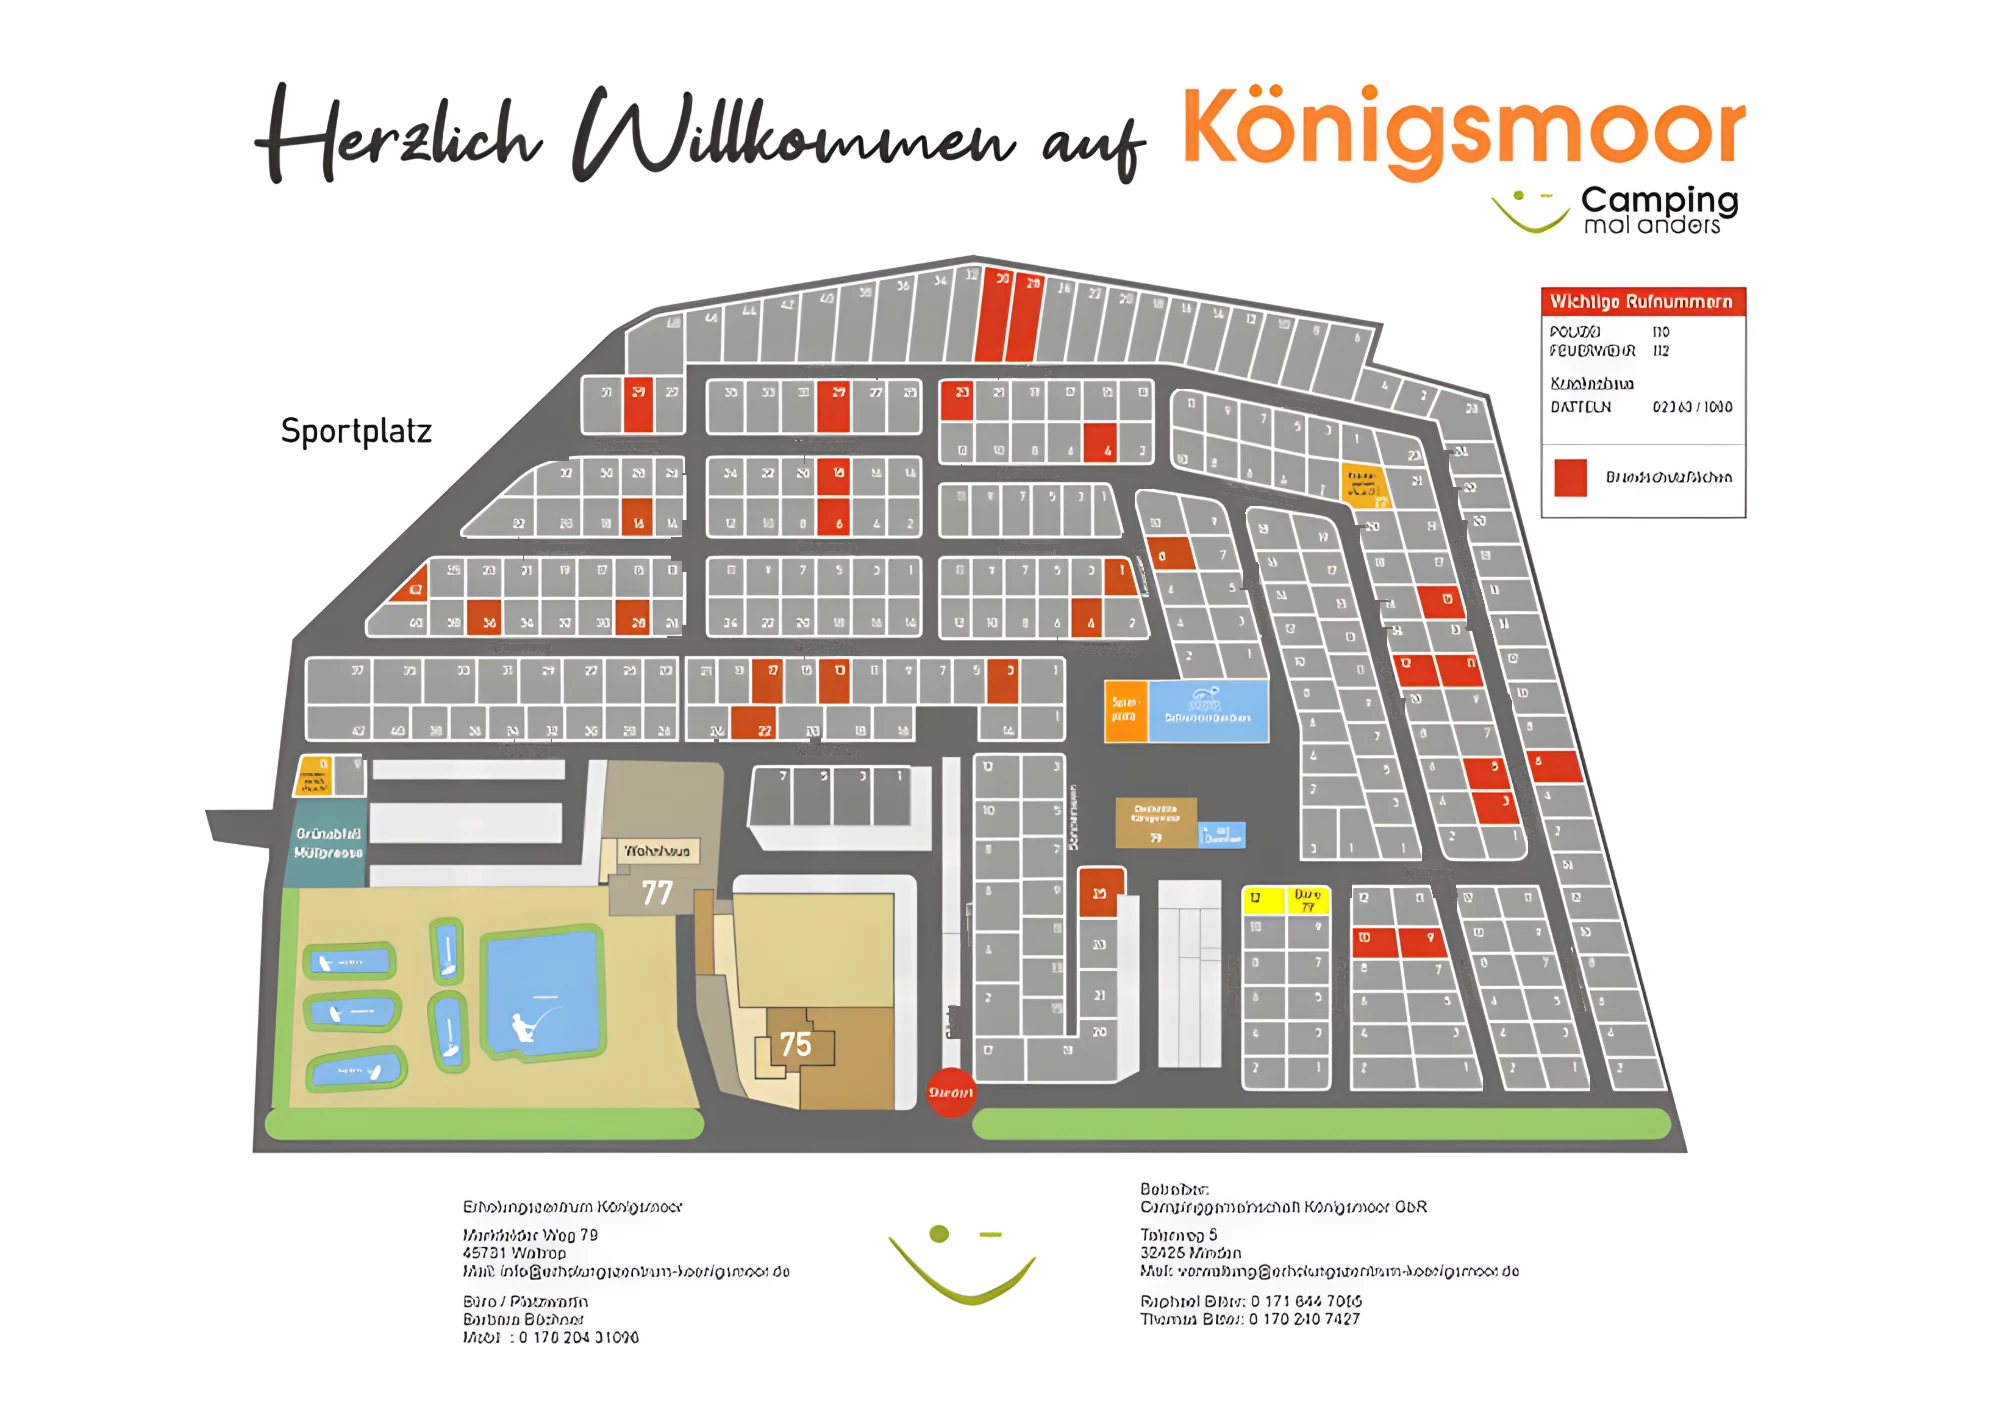
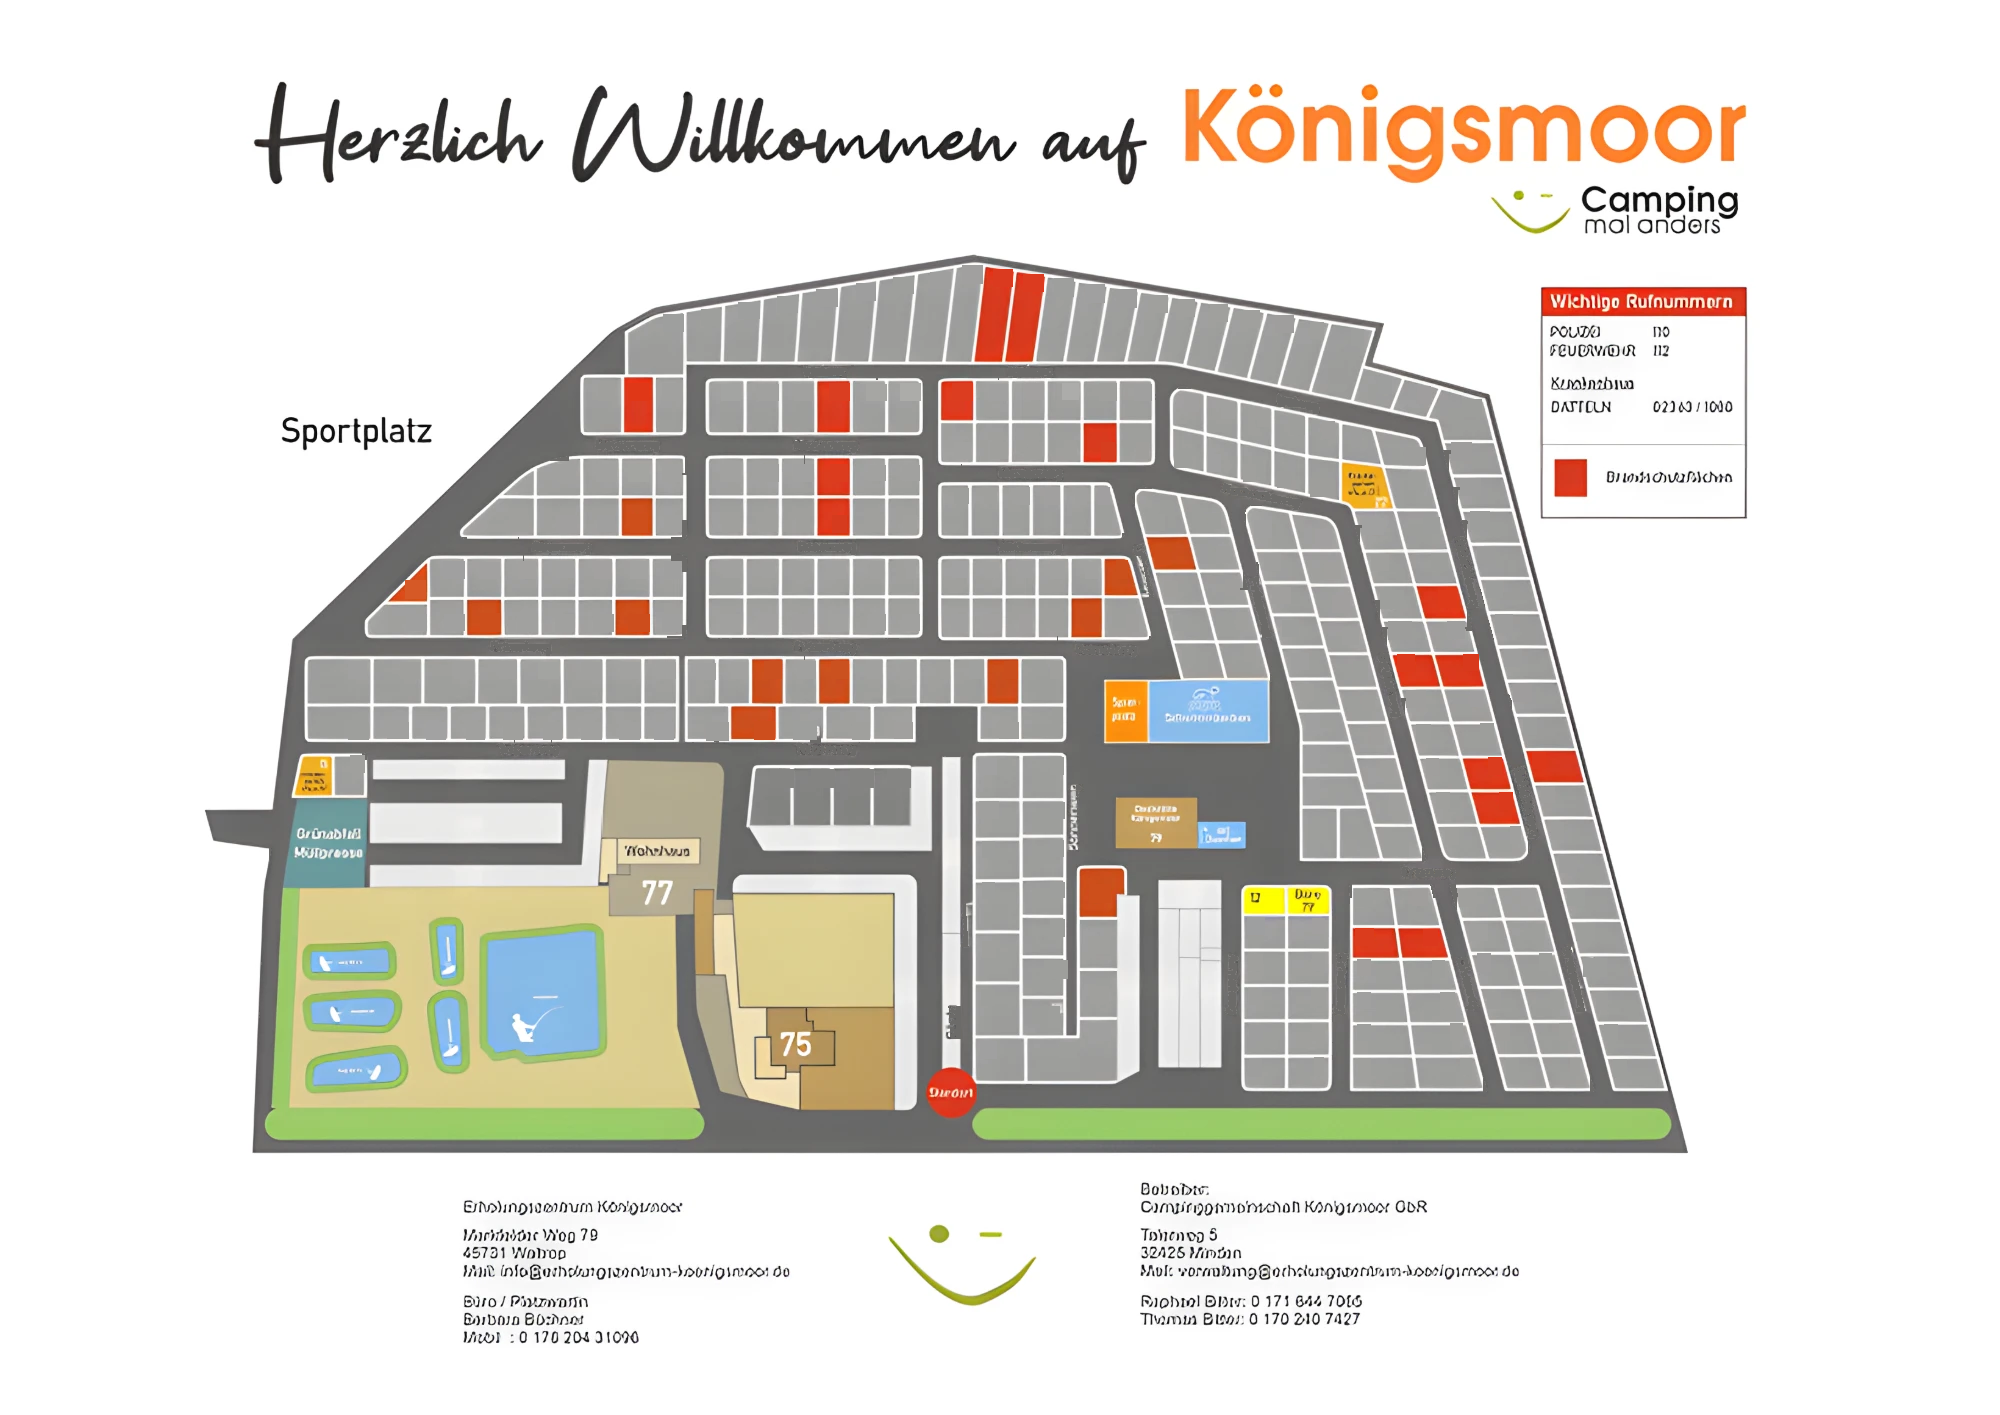
Parzellennummern scharf darstellen
Die verfälschten Nummern im Lageplan-Bild sind entfernt. 286 Nummern,
abgelesen aus dem ursprünglichen Lageplan, werden jetzt als Vektortext
darübergelegt und bleiben bei jedem Zoom lesbar.

Claude-Session: https://claude.ai/code/session_01ESgbY3yrWpCqW1QjVebnh4

Changed region(s): [[0.496, 0.1866, 0.527, 0.2177]]

diff --git a/index.html b/index.html
@@ -28,6 +28,7 @@ svg{width:100%;height:100%;display:block}
 .way.hl{stroke:var(--accent);stroke-opacity:.85;animation:blink 1s ease-in-out infinite}
 .brand{fill:none;stroke:#d93b2b;stroke-width:3;animation:blink 1s ease-in-out infinite}
 .ov text{font-family:system-ui,-apple-system,"Segoe UI",Roboto,sans-serif;pointer-events:none}
+.ov .pn{font-size:4.4px;font-weight:600;fill:#fff}
 .ov .wl{font-size:5px;font-weight:600;fill:#f4f4f4;letter-spacing:.1px}
 .way.sel{stroke:var(--accent);stroke-opacity:.95;stroke-width:8}
 @keyframes blink{50%{stroke-opacity:.25}}
@@ -226,6 +227,39 @@ const PLACES = [
   {name:"Gelbe Fläche Parz. 22", icon:"🟨", p:[562,198], info:"Gelb markierte Sonderfläche am Kuckucksweg – Beschriftung im Plan nicht lesbar."},
   {name:"Sportplatz", icon:"⚽", p:[140,175], info:"Außerhalb des Platzes, nordwestlich."}
 ];
+// Parzellennummern [x, y, Nummer], aus dem ursprünglichen Lageplan abgelesen
+const PARCELS = [
+  [398.3,111.5,"32"],[410.8,112.9,"30"],[385.1,114,"34"],[423.3,115,"28"],[369.9,116,"36"],[435.8,116.8,"26"],[354.6,118.7,"38"],[448.5,119.3,"22"],[338.5,121.2,"40"],[461.5,121.4,"20"],
+  [474.8,123.6,"18"],[322.3,123.8,"42"],[486.1,125.3,"16"],[306.5,126.3,"44"],[499.4,127.3,"14"],[290.9,129.2,"46"],[512.8,129.8,"12"],[275.5,131.4,"48"],[526.3,131.8,"10"],[539.6,134.5,"8"],
+  [556.3,137.4,"6"],[567.6,157.1,"4"],[423.9,159.5,"19"],[438.5,159.5,"17"],[248.1,159.7,"31"],[261.2,159.7,"29"],[274.9,159.7,"27"],[343.7,159.7,"29"],[372.8,159.7,"25"],[394.2,159.7,"23"],
+  [453.9,159.7,"15"],[299.1,159.9,"35"],[314.5,159.9,"33"],[328.9,159.9,"31"],[358.9,159.9,"27"],[408.9,159.9,"21"],[468.2,159.9,"13"],[583.6,161,"2"],[488.1,164.2,"11"],[603.3,166.3,"26"],
+  [503.1,167.3,"9"],[517.7,170.6,"7"],[531.6,173.7,"5"],[544.4,175.3,"3"],[555.9,178.8,"1"],[394.2,183.7,"12"],[409.1,183.7,"10"],[423.9,183.7,"8"],[438.5,183.7,"6"],[468,183.7,"2"],
+  [453.9,183.9,"4"],[598.9,184.2,"24"],[579.9,186,"23"],[484.7,187.2,"10"],[497.6,188.9,"8"],[231.6,193,"32"],[248.1,193,"30"],[261.2,193,"28"],[274.9,193,"26"],[298.9,193,"24"],
+  [314.5,193,"22"],[328.9,193,"20"],[343.5,193,"18"],[359.1,193,"16"],[373,193,"14"],[511.9,193,"6"],[526.1,195.6,"4"],[580.7,196.3,"21"],[602.6,198.7,"22"],[542,199,"2"],
+  [393.7,202.4,"11"],[405.6,202.4,"9"],[419,202.4,"7"],[431.1,202.4,"5"],[452.2,202.4,"1"],[442.8,202.6,"3"],[606.5,212.5,"20"],[497.6,212.7,"9"],[473.4,213.3,"10"],[314.7,213.5,"10"],
+  [212.1,213.7,"22"],[247.8,213.7,"18"],[261.4,213.7,"16"],[275.3,213.7,"14"],[299.1,213.7,"12"],[328.7,213.7,"8"],[358.9,213.7,"4"],[231.6,213.9,"20"],[343.7,213.9,"6"],[372.6,213.9,"2"],
+  [586.6,214.5,"19"],[562.6,214.9,"20"],[517.5,216,"18"],[542.3,219.4,"19"],[501.1,226.4,"7"],[609,226.8,"18"],[476.2,227,"8"],[521.4,229.5,"16"],[589.9,229.5,"17"],[565.5,229.7,"18"],
+  [231,232.6,"19"],[299.4,232.6,"11"],[393.1,232.6,"11"],[419.8,232.6,"7"],[459.6,232.6,"1"],[185.5,232.8,"25"],[215.4,232.8,"21"],[246.4,232.8,"17"],[261.4,232.8,"15"],[275.1,232.8,"13"],
+  [314.5,232.8,"9"],[328.7,232.8,"7"],[343.5,232.8,"5"],[359.1,232.8,"3"],[373,232.8,"1"],[406.3,232.8,"9"],[433.1,232.8,"5"],[200,233,"23"],[447.1,233,"3"],[546,233,"17"],
+  [505,240,"5"],[479.7,240.6,"6"],[169.7,240.8,"27"],[612.5,240.8,"16"],[525.1,243.2,"14"],[593.2,244.7,"15"],[571,245,"16"],[549.5,246.7,"15"],[508.9,253.7,"3"],[170.1,254.3,"40"],
+  [185.7,254.3,"38"],[200.2,254.3,"36"],[343.5,254.3,"18"],[359.1,254.3,"16"],[373,254.3,"14"],[406.5,254.3,"10"],[432.9,254.3,"6"],[215.6,254.5,"34"],[231,254.5,"32"],[246.8,254.5,"30"],
+  [261.4,254.5,"28"],[274.9,254.5,"26"],[298.9,254.5,"24"],[314.3,254.5,"22"],[328.7,254.5,"20"],[392.9,254.5,"12"],[420,254.5,"8"],[447.1,254.5,"4"],[463.9,254.5,"2"],[483.6,254.5,"4"],
+  [616.4,254.7,"14"],[528.8,256.8,"12"],[596.7,257.4,"13"],[574,258,"14"],[553.4,260.1,"13"],[511.9,267.1,"1"],[487.1,267.9,"2"],[620.1,268.9,"12"],[532.7,270.3,"10"],[602.8,270.7,"11"],
+  [576.2,271,"12"],[557.5,273.6,"11"],[145.9,273.8,"37"],[189.6,273.8,"33"],[207.6,273.8,"31"],[316.4,273.8,"17"],[330.1,273.8,"15"],[343.9,273.8,"13"],[358,273.8,"11"],[399.9,273.8,"5"],
+  [414.1,273.8,"3"],[432.3,273.8,"1"],[167.4,274,"35"],[224.2,274,"29"],[257.7,274,"25"],[272.5,274,"23"],[302.6,274,"19"],[372,274,"9"],[386.2,274,"7"],[241.9,274.2,"27"],
+  [289.1,274.4,"21"],[535.5,283.1,"8"],[624,283.3,"10"],[580.3,285.7,"10"],[605.1,285.7,"9"],[560.8,287.4,"9"],[433.1,292.7,"12"],[538,295.4,"6"],[627.1,297,"8"],[162.5,298.7,"40"],
+  [312.9,298.7,"22"],[369.9,298.7,"16"],[413.2,298.7,"14"],[146.3,298.9,"42"],[178.1,298.9,"38"],[194.3,298.9,"36"],[209.7,298.9,"34"],[225.9,298.9,"32"],[241.9,298.9,"30"],[257.5,298.9,"28"],
+  [271.6,298.9,"26"],[352.5,298.9,"18"],[330,299,"20"],[293.6,299.1,"24"],[609.4,299.5,"7"],[583.4,299.7,"8"],[564.5,300.9,"7"],[538,308.7,"4"],[630.8,311,"6"],[145.9,312.4,"9"],
+  [432.9,313.2,"3"],[612.7,313.2,"5"],[404.6,313.4,"12"],[587,313.4,"6"],[568.4,314.7,"5"],[538,322.7,"2"],[634.4,325.1,"4"],[591.4,327.4,"4"],[617.2,327.6,"3"],[572.1,328.2,"3"],
+  [405,331.3,"10"],[433.1,331.5,"5"],[638.3,339.9,"2"],[621.1,341.5,"1"],[595.1,342,"2"],[575.1,346.9,"1"],[432.9,347.1,"7"],[404.8,347.5,"8"],[642.7,353.6,"14"],[433.1,364.1,"9"],
+  [404.8,364.3,"6"],[450.6,365.6,"25"],[581.9,367.2,"11"],[626.4,367.2,"11"],[645.9,367.2,"12"],[558.9,367.4,"12"],[601.6,367.4,"12"],[514.6,378.9,"10"],[540.3,378.9,"9"],[433.1,379.7,"11"],
+  [630.6,381.4,"9"],[649.8,381.4,"10"],[605.9,381.6,"10"],[559.1,383.4,"10"],[586.2,383.6,"9"],[450.4,386.7,"23"],[405,388.5,"4"],[540.3,393.7,"7"],[633.4,393.7,"7"],[514.4,393.9,"8"],
+  [608.2,393.9,"8"],[558.9,395.9,"8"],[654,396,"8"],[589.5,396.5,"7"],[433,397,"13"],[450.4,407.2,"21"],[514.4,408,"6"],[540.3,408,"5"],[404.6,408.2,"2"],[558.9,409.5,"6"],
+  [593.2,409.5,"5"],[612.3,409.5,"6"],[638.1,409.5,"5"],[656.6,409.9,"6"],[431.9,414,"15"],[450.6,422.4,"20"],[596.9,422.4,"3"],[641.6,422.4,"3"],[540.3,422.6,"3"],[558.9,422.6,"4"],
+  [616,422.6,"4"],[660.3,422.6,"4"],[514.6,422.8,"4"],[404.8,429.8,"17"],[437.5,429.8,"19"],[540.5,436.6,"1"],[600.8,436.6,"1"],[645.5,436.8,"1"],[559.1,437,"2"],[619.9,437,"2"],
+  [514.4,437.2,"2"],[664,437.2,"2"],
+  [320.5,318.5,"7"],[337.5,318.5,"5"],[353.5,318.5,"3"],[368.5,318.5,"1"]
+];
 // Wichtige Rufnummern (aus dem Lageplan)
 // Brandschutzflächen: alle rot markierten Parzellen im Lageplan (Mittelpunkte)
 const BRAND = [[407,128],[419,129],[261,165],[341,166],[392,164],[451,181],[341,195],[260,211],[341,211],
@@ -324,6 +358,8 @@ function drawOverlay(){const g=$('overlay');g.setAttribute('class','ov');
       let ang=Math.atan2(sg.b[1]-sg.a[1],sg.b[0]-sg.a[0])*180/Math.PI;if(ang>90)ang-=180;if(ang<-90)ang+=180;
       T(m[0],m[1]+1.7,n,{class:'wl',transform:`rotate(${ang.toFixed(1)} ${m[0]} ${m[1]})`});}}
   g.appendChild(el('rect',{x:438.5,y:312,width:5,height:42,fill:'#6c6b69'})); // Reste der alten Sonnenweg-Schrift
+  // Parzellennummern
+  for(const [x,y,n] of PARCELS)T(x,y+1.5,n,{class:'pn'});
   // Gebäude und Flächen
   box(453,279,17,24,'#f39200',['Spiel-','platz'],{fill:'#fff','font-size':4});
   box(471,279,50,24,'#7cb5e6',['Schwimmbecken'],{fill:'#fff','font-size':4.4});
